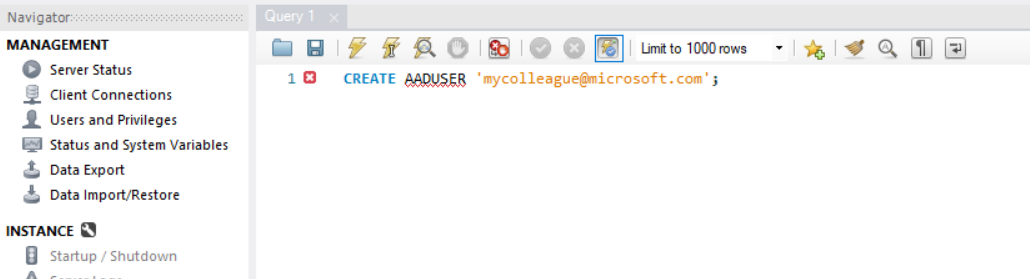
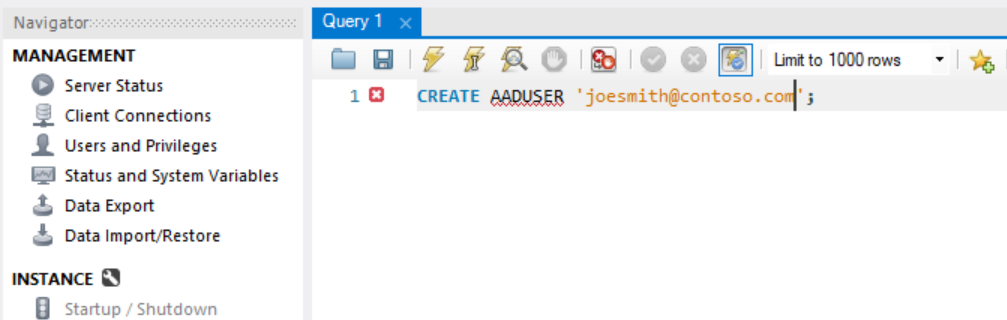
Updated MySQL exercises

Changed region(s): [[0.0, 0.1147, 0.2771, 1.0], [0.0, 0.0, 1.0, 0.2581], [0.2771, 0.2581, 0.8312, 0.3441]]

diff --git a/Azure Database for MySQL Single Server/08 Managing database users in Azure Database for MySQL Single Server/readme.md b/Azure Database for MySQL Single Server/08 Managing database users in Azure Database for MySQL Single Server/readme.md
@@ -29,9 +29,18 @@ This exercise shows how to create additional admin users in Azure Database for M
     
    Open Microsoft Edge and navigate to the [Azure Portal](http://ms.portal.azure.com) to connect to Microsoft Azure Portal. Login with your subscriptions credential.
 
+1. Go to your MySQL Server
+   
+   Go to your Azure Database for MySQL Single server in any way you prefer to look for a resource on Azure, you will use following server information in the next step
+
+   ![](Media/image0219.png)   
+
+
 1. Connect to your Azure Database for MySQL Single Server
 
-   Open **MySQL Workbench** and connect to your server using the admin user. 
+   Open **MySQL Workbench** and connect to your server using your server information retrieved in the previous step. 
+
+   ![](Media/image0220.png)   
 
 1. Review the default users defined when The Azure Database for MySQL Single Server is created
            
@@ -84,30 +93,36 @@ This exercise shows how to create additional admin users in Azure Database for M
     
    The server admin user account can be used to create additional users and grant those users into the *azure_pg_admin* role. Also, the server admin account can be used to create less privileged users and roles that have access to individual databases and schemas.
 
-1. Create a new admin user
+2. Create a new admin user
    
-   1. Before creating the new admin user, check the current privileges of the admin user:
-      ```sql
-      SHOW GRANTS;
-      ```
+   Create the new admin user, on the **MySQL** database, execute:
+   ```sql
+      CREATE USER '<new_admin_user>'@'%' IDENTIFIED BY '<password>';
+   ```
+    
+   For example:
+   ```sql
+      CREATE USER 'new_master_user'@'%' IDENTIFIED BY 'StrongPassword!';
+   ```
+   >IMPORTANT: Replace *[new_master_user]* with your new username and replace *[StrongPassword]* with your own strong password.
 
-   1. Copy each line from the results, you may have multiple lines, and paste it back to MySQL Workbench (to copy right click and use 'Copy Row (unquoted)')
+   Check the current privileges of the admin user:
+   ```sql
+      SHOW GRANTS;
+   ```
+
+   Copy each line from the results, you may have multiple lines, and paste it back to MySQL Workbench (to copy right click and use 'Copy Row (unquoted)')
       ![](Media/image0202.png)
 
-   1. In each of the lines, replace the current admin user with the new admin user:
+   In each of the lines, replace the current admin user with the new admin user:
       ![](Media/image0203.png)
 
-   1. Create the new admin user, on the **MySQL** database, execute:
-    
-      ```sql
-      CREATE USER 'new_master_user'@'%' IDENTIFIED BY 'StrongPassword!';
-      ```
 
-   1. Copy the GRANTs from (iii) to MySQL Workbench and execute them (add ; by the end of each GRANT):
+   Execute them (add ; by the end of each GRANT):
       ![](Media/image0204.png)
 
     
-   >IMPORTANT: Replace *[new_user]* with your new username and replace *[StrongPassword]* with your own strong password.
+
     
 
 Congratulations!. You have successfully completed this exercise.
@@ -125,19 +140,37 @@ This exercise shows how to Create less privileged users and roles that have acce
    Open Microsoft Edge and navigate to the [Azure Portal](http://ms.portal.azure.com) to connect to Microsoft Azure Portal. Login with your subscriptions credential.
 
 1. Go to your MySQL Server
+   
+   Go to your Azure Database for MySQL Single server in any way you prefer to look for a resource on Azure, you will use following server information in the next step
 
-   Go to your Azure Database for MySQL Single Server in any way you prefer to look for a resource on Azure
+   ![](Media/image0219.png)   
+
+
+1. Connect to your Azure Database for MySQL Single Server
+
+   Open **MySQL Workbench** and connect to your server using your server information retrieved in the previous step. 
+
+   ![](Media/image0220.png)   
 
 1. Create new database users
 
-   To create a new user and grant connect privileges to the new database for that user, on the **postgres** database, execute:
+   To create a new user and grant connect privileges to the new database for that user, execute:
 
+   ```sql
+   CREATE DATABASE <database_name>;
+   CREATE USER '<username>'@'%' IDENTIFIED BY '<password>';
+   GRANT ALL PRIVILEGES ON <database_name> . * TO '<username>'@'%';
+   FLUSH PRIVILEGES;
+   ```
+
+   For example:
    ```sql
    CREATE DATABASE testdb;
    CREATE USER 'db_user'@'%' IDENTIFIED BY 'StrongPassword!';
    GRANT ALL PRIVILEGES ON testdb . * TO 'db_user'@'%';
    FLUSH PRIVILEGES;
    ```
+   >IMPORTANT: Replace *[db_user]* with your new username and replace *[StrongPassword]* with your own strong password.
 
    ![](Media/image0205.png)
 
@@ -147,6 +180,12 @@ This exercise shows how to Create less privileged users and roles that have acce
     
    Run "Show Grants For" to get the permissions for the database user.
 
+   ```sql
+   USE <database_name>;
+   SHOW GRANTS FOR '<username>'@'%';
+   ```
+
+   For example:
    ```sql
    USE testdb;
    SHOW GRANTS FOR 'db_user'@'%';
@@ -247,22 +286,18 @@ This exercise shows how to configure Azure Active Directory access with Azure Da
    ```
 
    ![](Media/image0214.png)
-    
-   Using PowerShell, you can use the following command to acquire access token:
-   ```bash
-   $accessToken = Get-AzAccessToken -ResourceUrl https://ossrdbms-aad.database.windows.net
-   $accessToken.Token | out-file C:\\windows\\temp\\MySQLAccessToken.txt   
-   ```
 
-    ![](Media/image0215.png)
-   
+   Copy the token from the previous command (do not include the quotes " on the beginning and the end)
+
+
    Connect to MySQL Workbench:
    - Launch MySQL Workbench and Click the Database option, then click "Connect to database"
    - In the hostname field, enter the MySQL FQDN eg. mydb.mysql.database.azure.com
    - In the username field, enter the MySQL Azure Active Directory administrator name and append this with MySQL server name, not the FQDN e.g. user@tenant.onmicrosoft.com@mydb
-   - In the password field, click "Store in Vault" and paste in the access token from file e.g. C:\\\windows\\\temp\\\MySQLAccessToken.txt
+   - In the password field paste the content of the token that you copied from the "az account get-access-token" command
    - Click the advanced tab and ensure that you check "Enable Cleartext Authentication Plugin"
    - Click OK to connect to the database
+
    
    Get a list of databases just to validate you have successfully logged in using the Azure Active Directory admin by executing:
 
@@ -280,41 +315,10 @@ Congratulations!. You have successfully completed this exercise.
 
 ## Exercise 4: setting and connecting with regular Azure AD users in Azure Database for MySQL
 
-This exercise shows how to configure Azure Active Directory access with Azure Database for MySQL, and how to connect using an Azure AD token for a regular user.
-
-> For this exercise you will need to use your user as the Administrator for the datbase server and another user in Azure Active Directory to log into the database, if you cannot add another user into your Azure Active Directory you may add a colleague to help you test, in that case you may need to also add yours colleague IP address into the MySQL sever firewall [https://docs.microsoft.com/en-us/azure/mysql/single-server/concepts-firewall-rules](https://docs.microsoft.com/en-us/azure/mysql/single-server/concepts-firewall-rules)
-
+This exercise shows how to configure Azure Active Directory access with Azure Database for MySQL to add a non-admin user
 **Tasks**
 
-1. Connect to Microsoft Azure Portal
-    
-   Open Microsoft Edge and navigate to the [Azure Portal](http://ms.portal.azure.com) to connect to Microsoft Azure Portal. Login with your subscriptions credential.
-
-1. Go to your MySQL Server
-
-   Go to your Azure Database for MySQL Single Server in any way you prefer to look for a resource on Azure
-
-1. Set the Azure Active Directory admin user
-    
-   Under the **Settings** section in the sidebar, select **Active Directory admin**
-    
-   Click on **Set Admin**
-   
-   ![](Media/image0210.png)
-   
-   Look for the your user. For this lab, look for the user you are logged in with. Click **Select**
-    
-   ![](Media/image0125.png)
-   
-   You will see the selected user as the Active Directory Admin. Click on **Save**
-    
-   ![](Media/image0211.png)
-
-   >Only one Azure AD admin can be created per MySQL server and selection of another one will overwrite the existing Azure AD admin configured for the server. You can specify an Azure AD group instead of an individual user to have multiple administrators. Note that you will then sign in with the group name for administration purpose
-
-1. Click **Save**
-
-   ![](Media/image0216.png)
+> For this exercise you will need to have completed the previous exercise
 
 1. Connect Azure Database for MySQL Single Server using Azure Active Directory
     
@@ -337,67 +341,27 @@ This exercise shows how to configure Azure Active Directory access with Azure Da
    ```
 
    ![](Media/image0214.png)
-    
-   Using PowerShell, you can use the following command to acquire access token:
-   ```bash
-   $accessToken = Get-AzAccessToken -ResourceUrl https://ossrdbms-aad.database.windows.net
-   $accessToken.Token | out-file C:\\windows\\temp\\MySQLAccessToken.txt   
-   ```
 
-    ![](Media/image0215.png)
-   
+   Copy the token from the previous command (do not include the quotes " on the beginning and the end)
+
+
    Connect to MySQL Workbench:
    - Launch MySQL Workbench and Click the Database option, then click "Connect to database"
    - In the hostname field, enter the MySQL FQDN eg. mydb.mysql.database.azure.com
    - In the username field, enter the MySQL Azure Active Directory administrator name and append this with MySQL server name, not the FQDN e.g. user@tenant.onmicrosoft.com@mydb
-   - In the password field, click "Store in Vault" and paste in the access token from file e.g. C:\\\windows\\\temp\\\MySQLAccessToken.txt
+   - In the password field paste the content of the token that you copied from the "az account get-access-token" command
    - Click the advanced tab and ensure that you check "Enable Cleartext Authentication Plugin"
    - Click OK to connect to the database
+
 
 1. In MySQL Workbench, add the user you want log in, this is not the admin user, it can be the user you just added to the Azure Active Directory or your colleague's user:
 
    ```SQL
-   CREATE AADUSER 'user1@yourtenant.onmicrosoft.com';
+   CREATE AADUSER '<userid>@<yourtenant.onmicrosoft.com>';
    ```
 
    ![](Media/image0218.png)
 
-1. Connect Azure Database for MySQL Single Server using Azure Active Directory with the user added in the previous step.
-    
-   Open the **Powershell**
-    
-   Invoke the Azure CLI tool to authenticate with Azure AD. It requires you to give your Azure AD user ID (the one you set as Azure Active Directory admin in the previous step) and the password:
-    
-   ```bash
-   az login
-   ```
-    
-   ![](Media/image0212.png)
-    
-
-    
-   Acquire an access token for the Azure AD authenticated user to access Azure Database for MySQL by executing:
-
-   ```bash
-   az account get-access-token --resource-type oss-rdbms
-   ```
-
-   ![](Media/image0214.png)
-    
-   Using PowerShell, you can use the following command to acquire access token:
-   ```bash
-   $accessToken = Get-AzAccessToken -ResourceUrl https://ossrdbms-aad.database.windows.net
-   $accessToken.Token | out-file C:\\windows\\temp\\MySQLAccessToken.txt   
-   ```
-
-    ![](Media/image0215.png)
-   
-   Connect to MySQL Workbench:
-   - Launch MySQL Workbench and Click the Database option, then click "Connect to database"
-   - In the hostname field, enter the MySQL FQDN eg. mydb.mysql.database.azure.com
-   - In the username field, enter the MySQL Azure Active Directory administrator name and append this with MySQL server name, not the FQDN e.g. user@tenant.onmicrosoft.com@mydb
-   - In the password field, click "Store in Vault" and paste in the access token from file e.g. C:\\\windows\\\temp\\\MySQLAccessToken.txt
-   - Click the advanced tab and ensure that you check "Enable Cleartext Authentication Plugin"
-   - Click OK to connect to the database
+Now the user that you just add can connect to the MySQL database using AAD authentication.
 
 Congratulations! You have successfully completed this exercise and the Lab. 
